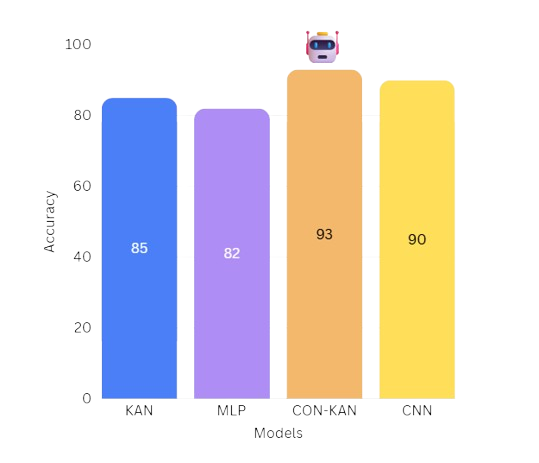
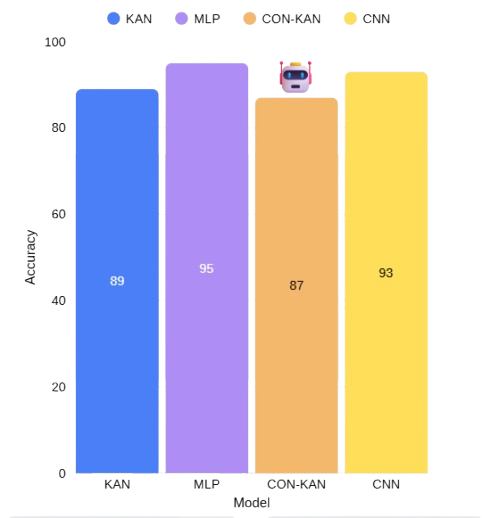
updated modelcomparisonchart-bg2.png

diff --git a/Frontend/model-frontend/src/app/components/home/home.component.css b/Frontend/model-frontend/src/app/components/home/home.component.css
@@ -146,14 +146,14 @@
 } */
 
 .mcard-kan { 
-  background-image: url("../../../modelcomparisonchart-bg.png");
+  background-image: url("../../../modelcomparisonchart-bg2.png");
   max-width:480px;
   height: 380px;
   background-repeat: no-repeat;
   background-size: contain;
   animation: float 5s ease infinite;
   background-color: var(--image-bg);
-
+  
 }
 
 .mcard-loss { 
